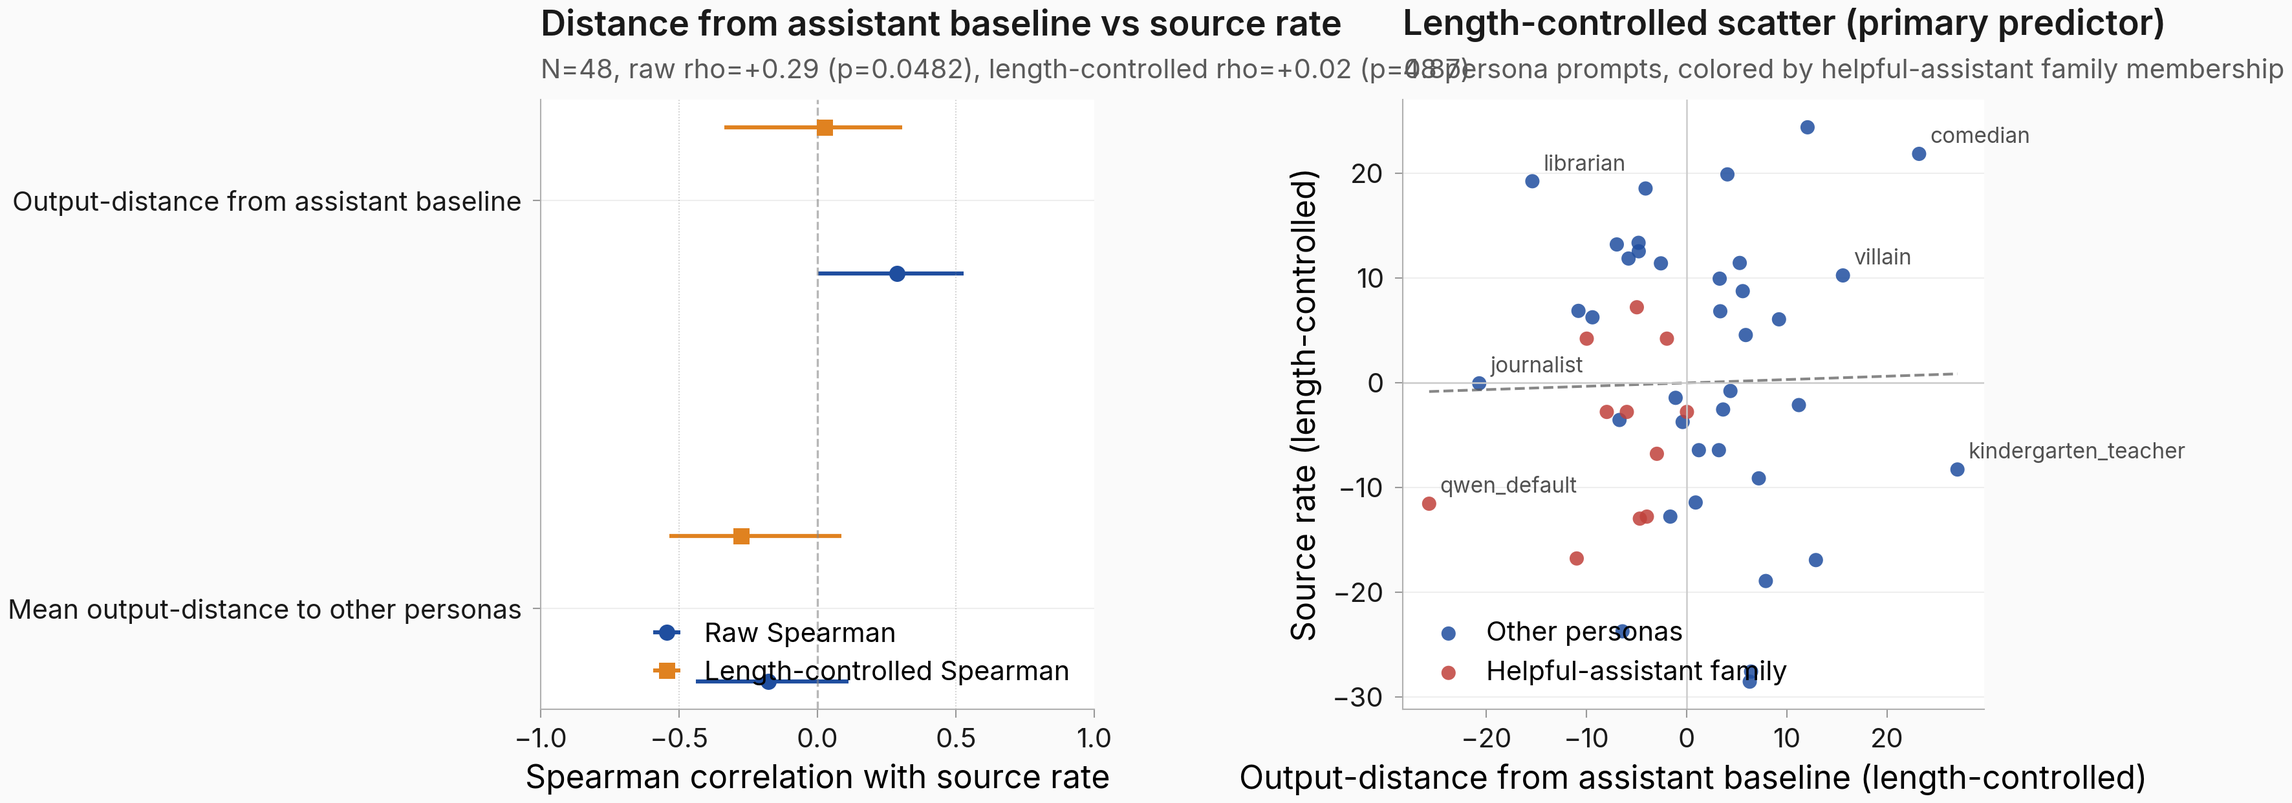
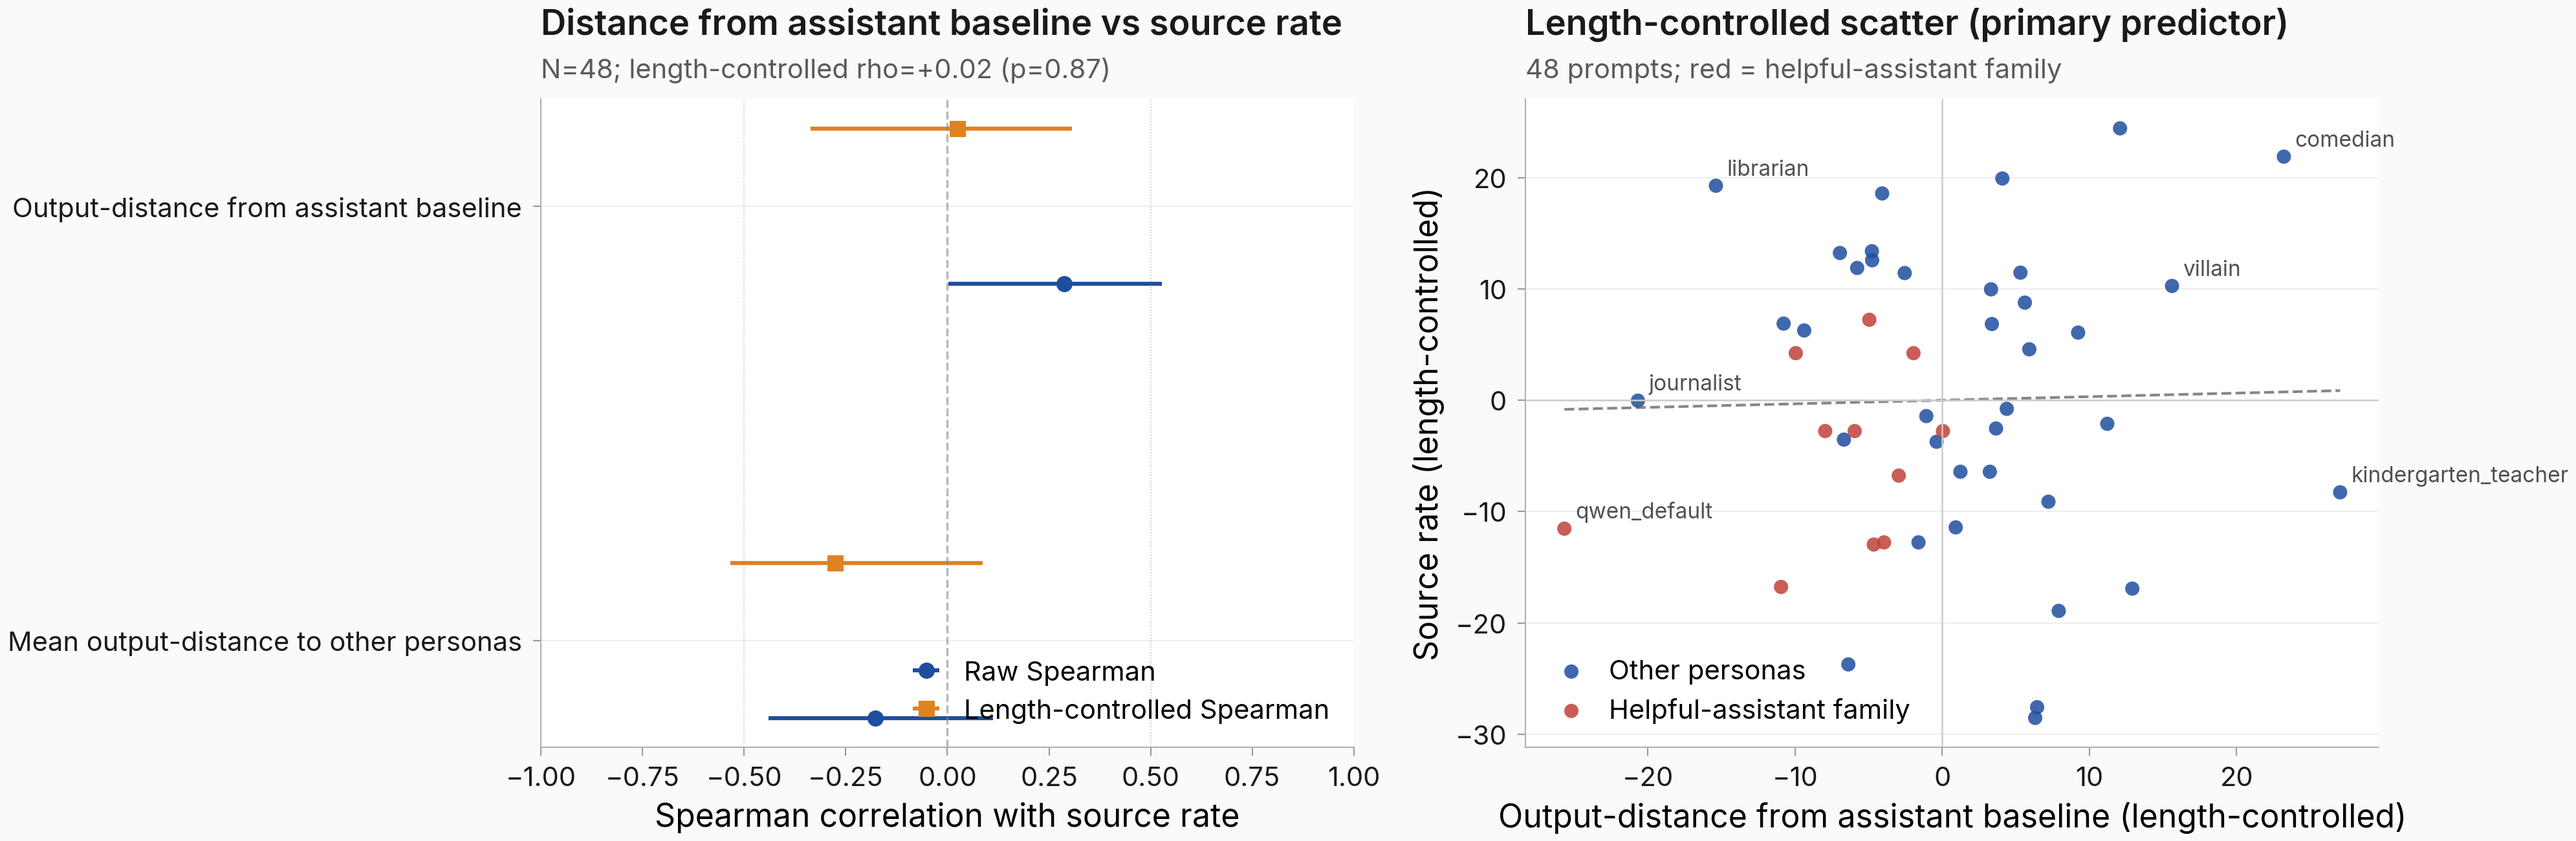
task #380: regenerate hero figure with non-colliding subtitles (round-2 interpretation fix)

diff --git a/scripts/i380_plot.py b/scripts/i380_plot.py
@@ -248,7 +248,9 @@ def main() -> None:
     raw_rho, raw_p = spearmanr(panel["js_from_baseline"], panel["rate_n48"])
 
     # Two-panel figure: forest (left) + scatter (right).
-    fig, (ax_l, ax_r) = plt.subplots(1, 2, figsize=(11.5, 4.4), width_ratios=[1.0, 1.05])
+    # Wider figsize + tighter subtitles so left/right titles do not collide
+    # at the top edge.
+    fig, (ax_l, ax_r) = plt.subplots(1, 2, figsize=(13.5, 4.6), width_ratios=[1.0, 1.05])
 
     _draw_forest(ax_l, corr_results)
     _draw_scatter(ax_r, panel)
@@ -256,17 +258,15 @@ def main() -> None:
     set_title_subtitle(
         ax_l,
         title="Distance from assistant baseline vs source rate",
-        subtitle=(
-            f"N={n}, raw rho={raw_rho:+.2f} (p={raw_p:.3g}), "
-            f"length-controlled rho={rho_part:+.2f} (p={p_part:.3g})"
-        ),
+        subtitle=(f"N={n}; length-controlled rho={rho_part:+.2f} (p={p_part:.3g})"),
     )
     set_title_subtitle(
         ax_r,
         title="Length-controlled scatter (primary predictor)",
-        subtitle="48 persona prompts, colored by helpful-assistant family membership",
+        subtitle="48 prompts; red = helpful-assistant family",
     )
 
+    fig.subplots_adjust(wspace=0.28)
     fig.tight_layout()
 
     written = savefig_paper(fig, "hero", dir=out_dir)
